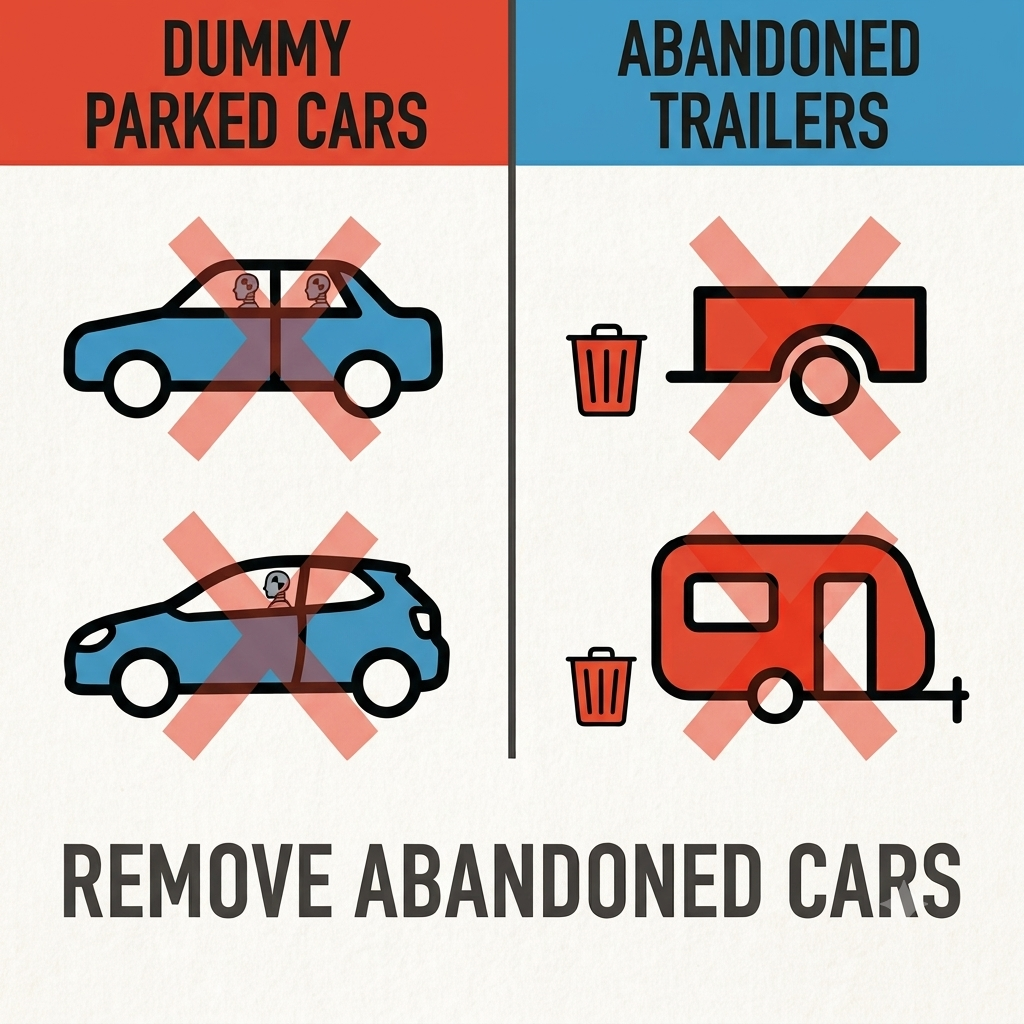
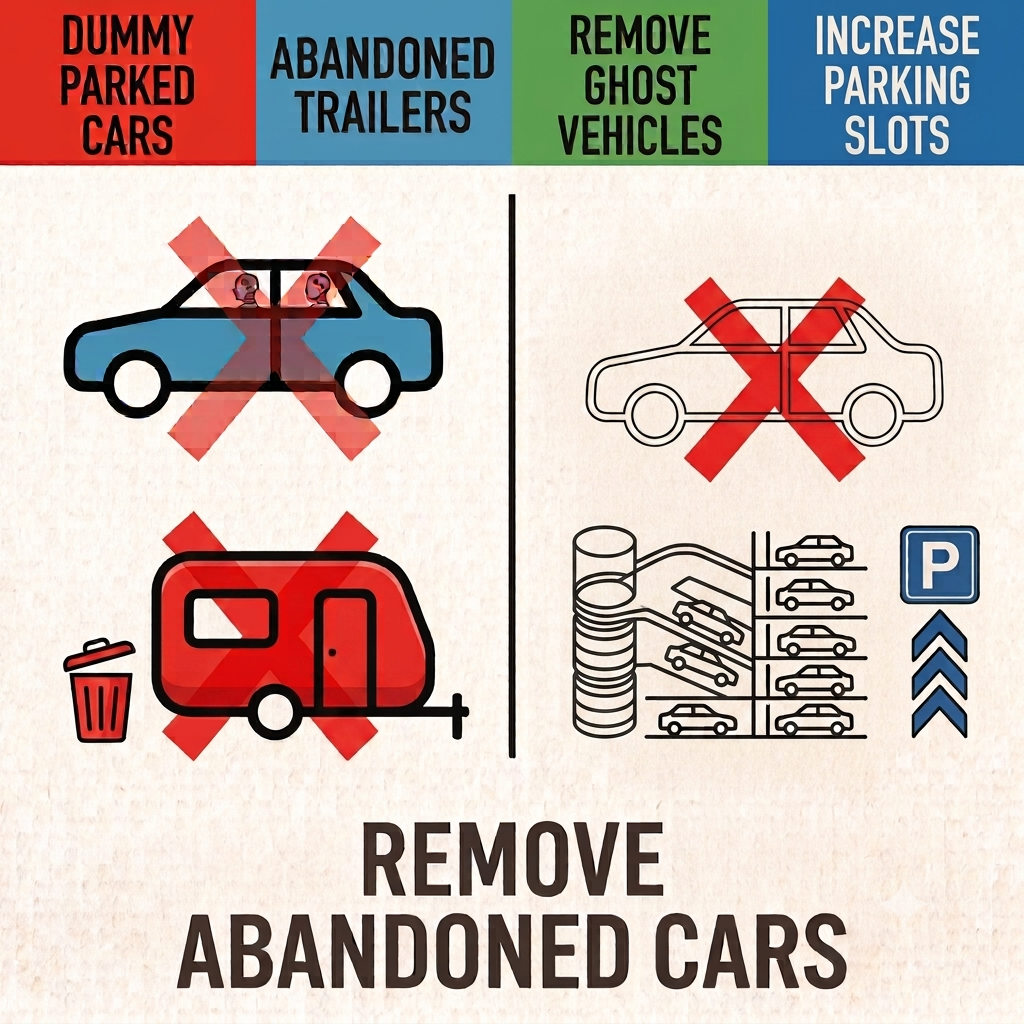
v1.1.1

diff --git a/README.md b/README.md
@@ -36,7 +36,7 @@ Support provided to on [Cities: Skylines Modding > Remove Abandoned Cars](https:
 ### Credits
 - Necko1996 - author/maintainer
 - Thanks to yenyang - introducing me on how to delete things in game and explaining
-- Thanks to krzychu124 - explaining how CS2 works
+- Thanks to krzychu124 - code review, explaining how CS2 works
 - Thanks to Mimonsi - used inspiration from his mods (more about it in Important section)
 - Thanks to River-mochi - naming the mod
 
